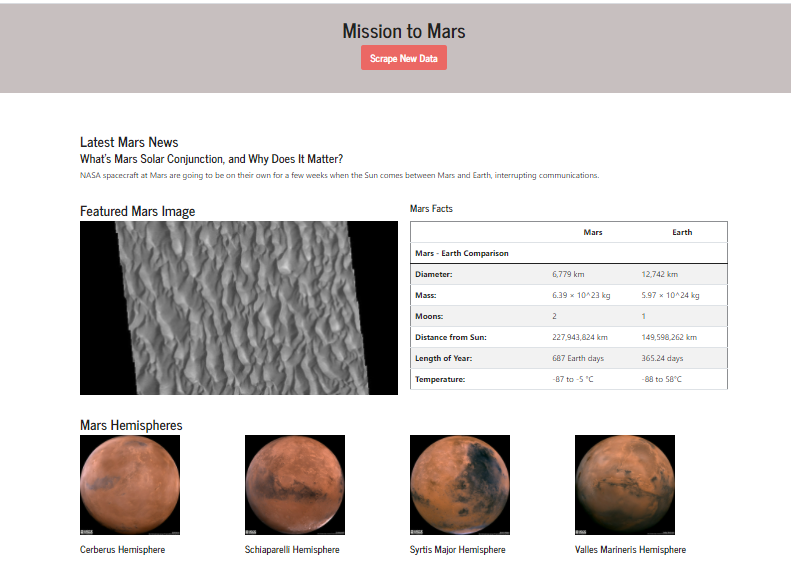
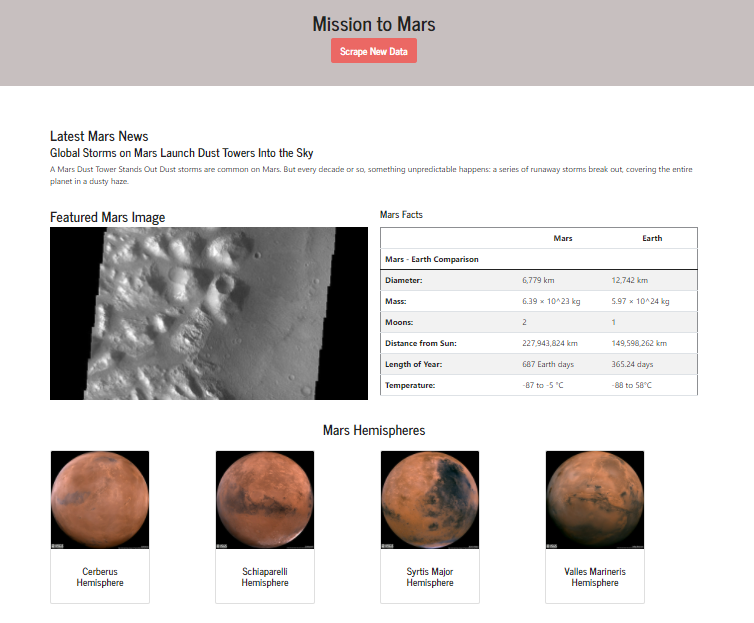
more formatting changes

Changed region(s): [[0.061, 0.207, 0.9456, 0.9757], [0.0, 0.0, 1.0, 0.1774], [0.7016, 0.7096, 0.8846, 0.9757]]

diff --git a/Mission_to_Mars/templates/index.html b/Mission_to_Mars/templates/index.html
@@ -55,18 +55,29 @@
 
 
             <div class=row style="margin-top: 2%">
+
                 
-                <h3>Mars Hemispheres</h3>
+                
+                <h3 style="text-align: center; margin-bottom: 2%;">Mars Hemispheres</h3>
 
                 {%for hemispheres in redplanet.hemispheres%}
                 
                 <div class="col-sm-12 col-md-6 col-lg-3">
-                    <p><img src= "{{hemispheres.img_url}}" alt="{{hemispheres.title}}" width=200px /></p>
-                    <h5>{{hemispheres.title}} </h5>
+                    <!-- <p><img src= "{{hemispheres.img_url}}" alt="{{hemispheres.title}}" width=200px /></p> -->
+                    <!-- <h5>{{hemispheres.title}} </h5> -->
+
+                    <div class="card" style="width: 200px;">
+                        <img src="{{hemispheres.img_url}}" class="card-img-top" alt="{{hemispheres.title}}">
+                        <div class="card-body">
+                        <p class="card-text"><h5 style="text-align: center;">{{hemispheres.title}} </h5></p>
+                        </div>
+                    </div>
+
                 </div>
 
                 {%endfor%}
 
+               
 
 
             </div>
